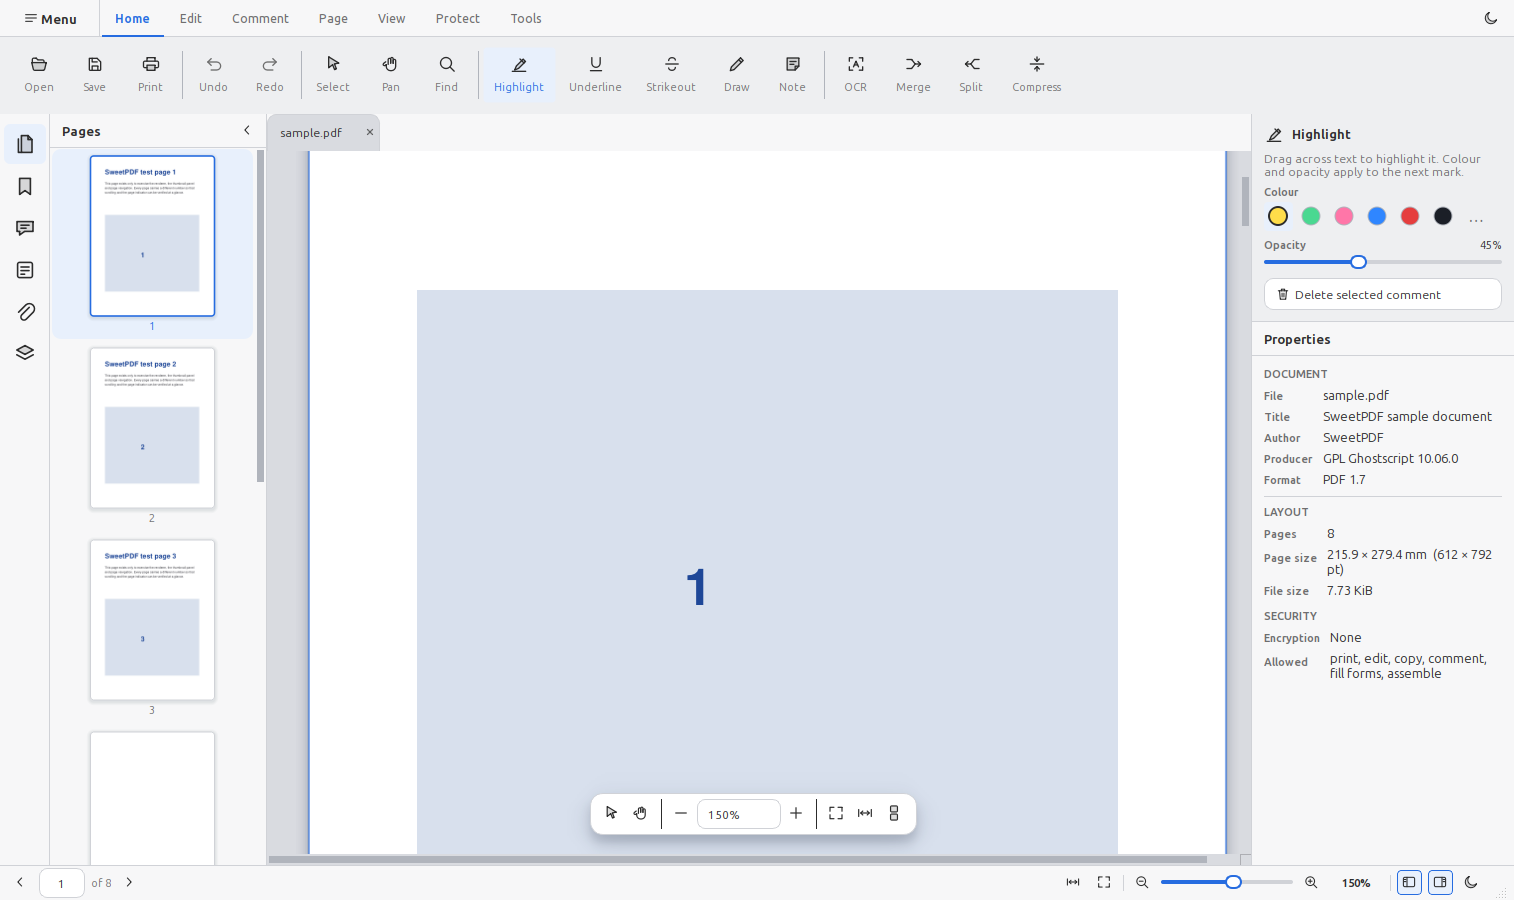
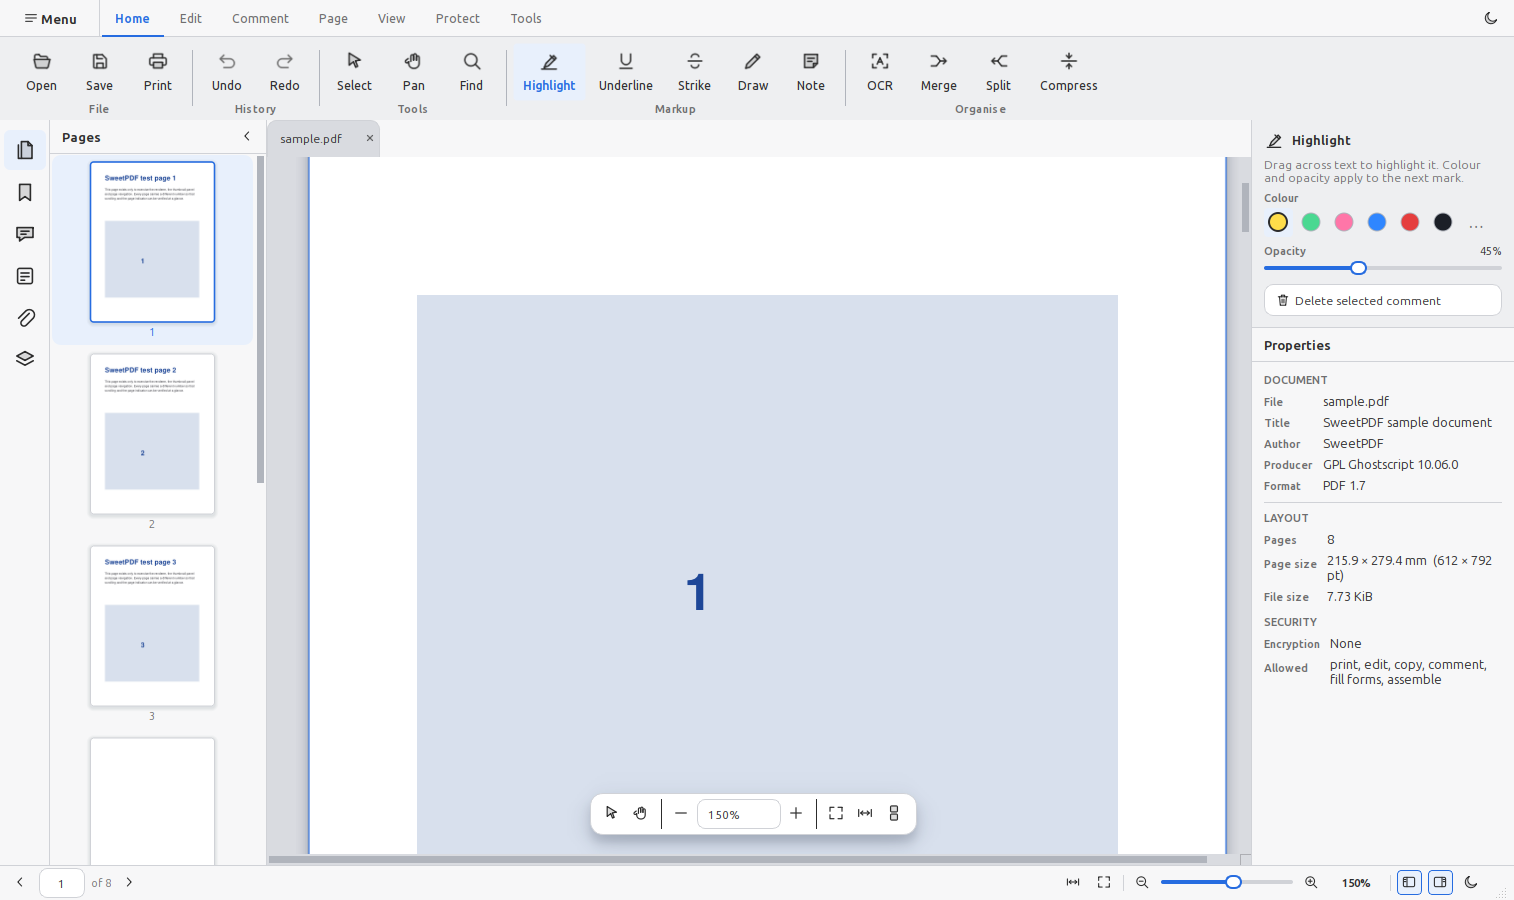
Update RibbonBar layout and enhance UI elements for better usability
- Increased icon sizes and adjusted button dimensions in RibbonBar for improved accessibility.
- Added section titles in RibbonGroup to enhance clarity and organization of commands.
- Updated theme styles for RibbonGroupTitle to ensure consistent visual presentation.
- Replaced viewer screenshots in both light and dark themes to reflect recent design updates.

diff --git a/src/ui/ribbon/RibbonBar.cpp b/src/ui/ribbon/RibbonBar.cpp
@@ -7,6 +7,7 @@
 #include <QEvent>
 #include <QFrame>
 #include <QHBoxLayout>
+#include <QLabel>
 #include <QMenu>
 #include <QMouseEvent>
 #include <QPushButton>
@@ -18,9 +19,9 @@
 namespace sweet::ui {
 namespace {
 
-constexpr int largeIconSize = 20;
+constexpr int largeIconSize = 22;
 constexpr int compactIconSize = 16;
-constexpr int largeCellWidth = 54;
+constexpr int largeCellWidth = 56;
 
 QToolButton *makeButton(QAction *action, bool large)
 {
@@ -30,19 +31,23 @@ QToolButton *makeButton(QAction *action, bool large)
     button->setFocusPolicy(Qt::TabFocus);
     button->setCursor(Qt::ArrowCursor);
     button->setAutoRaise(true);
+    // Prefer the short ribbon caption (iconText) when set; menus keep the full text.
+    const QString caption =
+        action->iconText().isEmpty() || action->iconText() == action->text()
+            ? action->text()
+            : action->iconText();
+    button->setText(caption);
     if (action->toolTip().isEmpty())
         button->setToolTip(action->text());
 
     if (large) {
-        // Acrobat-style tool cell: glyph above a short caption, fixed footprint.
         button->setToolButtonStyle(Qt::ToolButtonTextUnderIcon);
         button->setIconSize(QSize(largeIconSize, largeIconSize));
-        const int textWidth = button->fontMetrics().horizontalAdvance(action->text());
-        button->setMinimumWidth(qMax(largeCellWidth, textWidth + 10));
-        button->setMinimumHeight(56);
+        const int textWidth = button->fontMetrics().horizontalAdvance(caption);
+        button->setMinimumWidth(qMax(largeCellWidth, textWidth + 12));
+        button->setMinimumHeight(58);
         button->setSizePolicy(QSizePolicy::Minimum, QSizePolicy::Fixed);
     } else {
-        // Secondary commands pack beside a large cell without stretching the ribbon.
         button->setToolButtonStyle(Qt::ToolButtonTextBesideIcon);
         button->setIconSize(QSize(compactIconSize, compactIconSize));
         button->setSizePolicy(QSizePolicy::Minimum, QSizePolicy::Fixed);
@@ -59,7 +64,7 @@ QFrame *makeGroupSeparator(QWidget *parent)
     line->setObjectName(QStringLiteral("RibbonGroupSeparator"));
     line->setFrameShape(QFrame::NoFrame);
     line->setFixedWidth(1);
-    line->setMinimumHeight(48);
+    line->setMinimumHeight(56);
     line->setSizePolicy(QSizePolicy::Fixed, QSizePolicy::Expanding);
     return line;
 }
@@ -69,15 +74,26 @@ QFrame *makeGroupSeparator(QWidget *parent)
 RibbonGroup::RibbonGroup(const QString &title, QWidget *parent)
     : QWidget(parent)
 {
-    // Title stays for accessibility / translators, but is not drawn — Adobe
-    // clusters tools with separators, not "File" / "History" captions.
     if (!title.isEmpty())
         setAccessibleName(title);
 
-    m_row = new QHBoxLayout(this);
-    m_row->setContentsMargins(4, 4, 4, 4);
+    auto *column = new QVBoxLayout(this);
+    column->setContentsMargins(6, 4, 6, 2);
+    column->setSpacing(2);
+
+    auto *content = new QWidget(this);
+    m_row = new QHBoxLayout(content);
+    m_row->setContentsMargins(0, 0, 0, 0);
     m_row->setSpacing(2);
-    m_row->setAlignment(Qt::AlignVCenter);
+    m_row->setAlignment(Qt::AlignHCenter | Qt::AlignVCenter);
+    column->addWidget(content, 1);
+
+    // Small section caption under the tools — the main cue for what each cluster does.
+    auto *label = new QLabel(title, this);
+    label->setObjectName(QStringLiteral("RibbonGroupTitle"));
+    label->setAlignment(Qt::AlignHCenter | Qt::AlignVCenter);
+    label->setVisible(!title.isEmpty());
+    column->addWidget(label);
 }
 
 QToolButton *RibbonGroup::addAction(QAction *action)

diff --git a/src/ui/window/MainWindow.cpp b/src/ui/window/MainWindow.cpp
@@ -559,6 +559,37 @@ void MainWindow::createActions()
         setWindowState(on ? windowState() | Qt::WindowFullScreen
                           : windowState() & ~Qt::WindowFullScreen);
     });
+
+    // Short captions for the ribbon cells. Menus and tooltips keep the full text;
+    // long names like "Rotate Page Left" are hard to scan under an icon.
+    const auto shortCaption = [this](const QString &id, const QString &caption) {
+        if (QAction *entry = action(id))
+            entry->setIconText(caption);
+    };
+    shortCaption(QStringLiteral("toolStrikeout"), tr("Strike"));
+    shortCaption(QStringLiteral("toolHighlight"), tr("Highlight"));
+    shortCaption(QStringLiteral("toolUnderline"), tr("Underline"));
+    shortCaption(QStringLiteral("addText"), tr("Text"));
+    shortCaption(QStringLiteral("toolEditText"), tr("Edit"));
+    shortCaption(QStringLiteral("toolRedact"), tr("Redact"));
+    shortCaption(QStringLiteral("applyRedactions"), tr("Apply"));
+    shortCaption(QStringLiteral("rotatePagesLeft"), tr("Left"));
+    shortCaption(QStringLiteral("rotatePagesRight"), tr("Right"));
+    shortCaption(QStringLiteral("rotateLeft"), tr("Left"));
+    shortCaption(QStringLiteral("rotateRight"), tr("Right"));
+    shortCaption(QStringLiteral("editImage"), tr("Replace"));
+    shortCaption(QStringLiteral("addImage"), tr("Image"));
+    shortCaption(QStringLiteral("exportText"), tr("Text"));
+    shortCaption(QStringLiteral("exportImages"), tr("Images"));
+    shortCaption(QStringLiteral("forms"), tr("Forms"));
+    shortCaption(QStringLiteral("layoutSingle"), tr("Single"));
+    shortCaption(QStringLiteral("layoutContinuous"), tr("Scroll"));
+    shortCaption(QStringLiteral("layoutTwoPage"), tr("Two"));
+    shortCaption(QStringLiteral("fitPage"), tr("Page"));
+    shortCaption(QStringLiteral("fitWidth"), tr("Width"));
+    shortCaption(QStringLiteral("toggleSidebar"), tr("Nav"));
+    shortCaption(QStringLiteral("toggleProperties"), tr("Props"));
+    shortCaption(QStringLiteral("actualSize"), tr("100%"));
 }
 
 // --- Menus -----------------------------------------------------------------

diff --git a/src/ui/theme/Theme.cpp b/src/ui/theme/Theme.cpp
@@ -350,6 +350,13 @@ QMenu::right-arrow { width: 12px; height: 12px; }
     background: {surfaceAlt};
 }
 #RibbonGroupSeparator { background: {borderStrong}; }
+#RibbonGroupTitle {
+    color: {textMuted};
+    font-size: {fontCaption}pt;
+    font-weight: 600;
+    letter-spacing: 0.4px;
+    padding: 0 2px 1px 2px;
+}
 
 QPushButton#RibbonTab {
     background: transparent;
@@ -382,14 +389,15 @@ QToolButton:checked { background: {accentSoft}; border-color: {accent}; color: {
 QToolButton:disabled { color: {textMuted}; }
 QToolButton::menu-indicator { image: none; }
 QToolButton#RibbonAction {
-    padding: 4px 6px 3px 6px;
-    color: {textMuted};
-    font-size: {fontCaption}pt;
+    padding: 4px 6px 2px 6px;
+    color: {text};
+    font-size: {fontSmall}pt;
+    font-weight: 500;
     border-radius: 4px;
 }
 QToolButton#RibbonAction:hover { color: {text}; background: {hover}; }
 QToolButton#RibbonAction:checked {
-    color: {accent}; background: {accentSoft}; border-color: transparent;
+    color: {accent}; background: {accentSoft}; border-color: transparent; font-weight: 600;
 }
 QToolButton#RailButton {
     border: none;

diff --git a/src/ui/ribbon/RibbonBar.h b/src/ui/ribbon/RibbonBar.h
@@ -12,10 +12,10 @@ class QVBoxLayout;
 
 namespace sweet::ui {
 
-/// A cluster of related commands inside a ribbon page.
+/// A labelled cluster of related commands inside a ribbon page.
 ///
-/// `title` is kept for accessibility only; group captions are not shown so the
-/// ribbon stays compact.
+/// The section caption under the tools (File, Markup, …) is what makes the
+/// header scannable; individual commands still show their own short names.
 class RibbonGroup : public QWidget
 {
     Q_OBJECT
